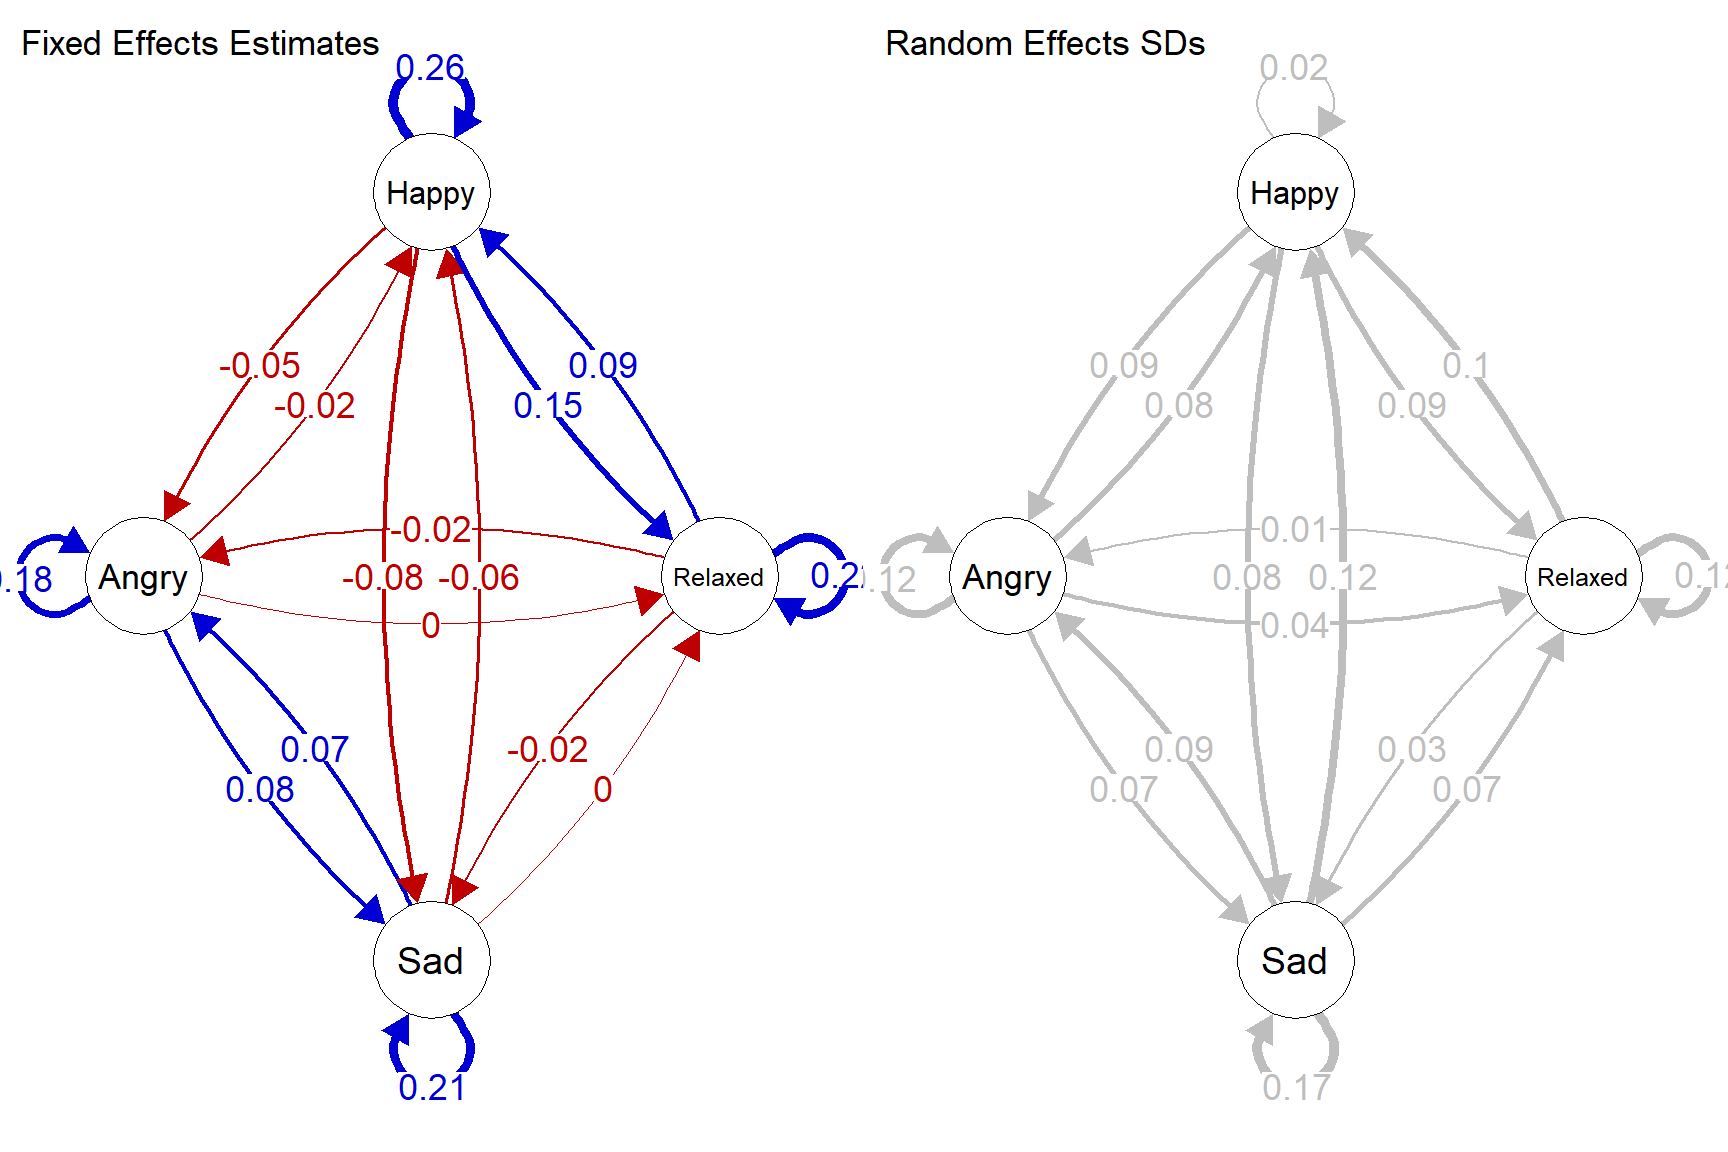
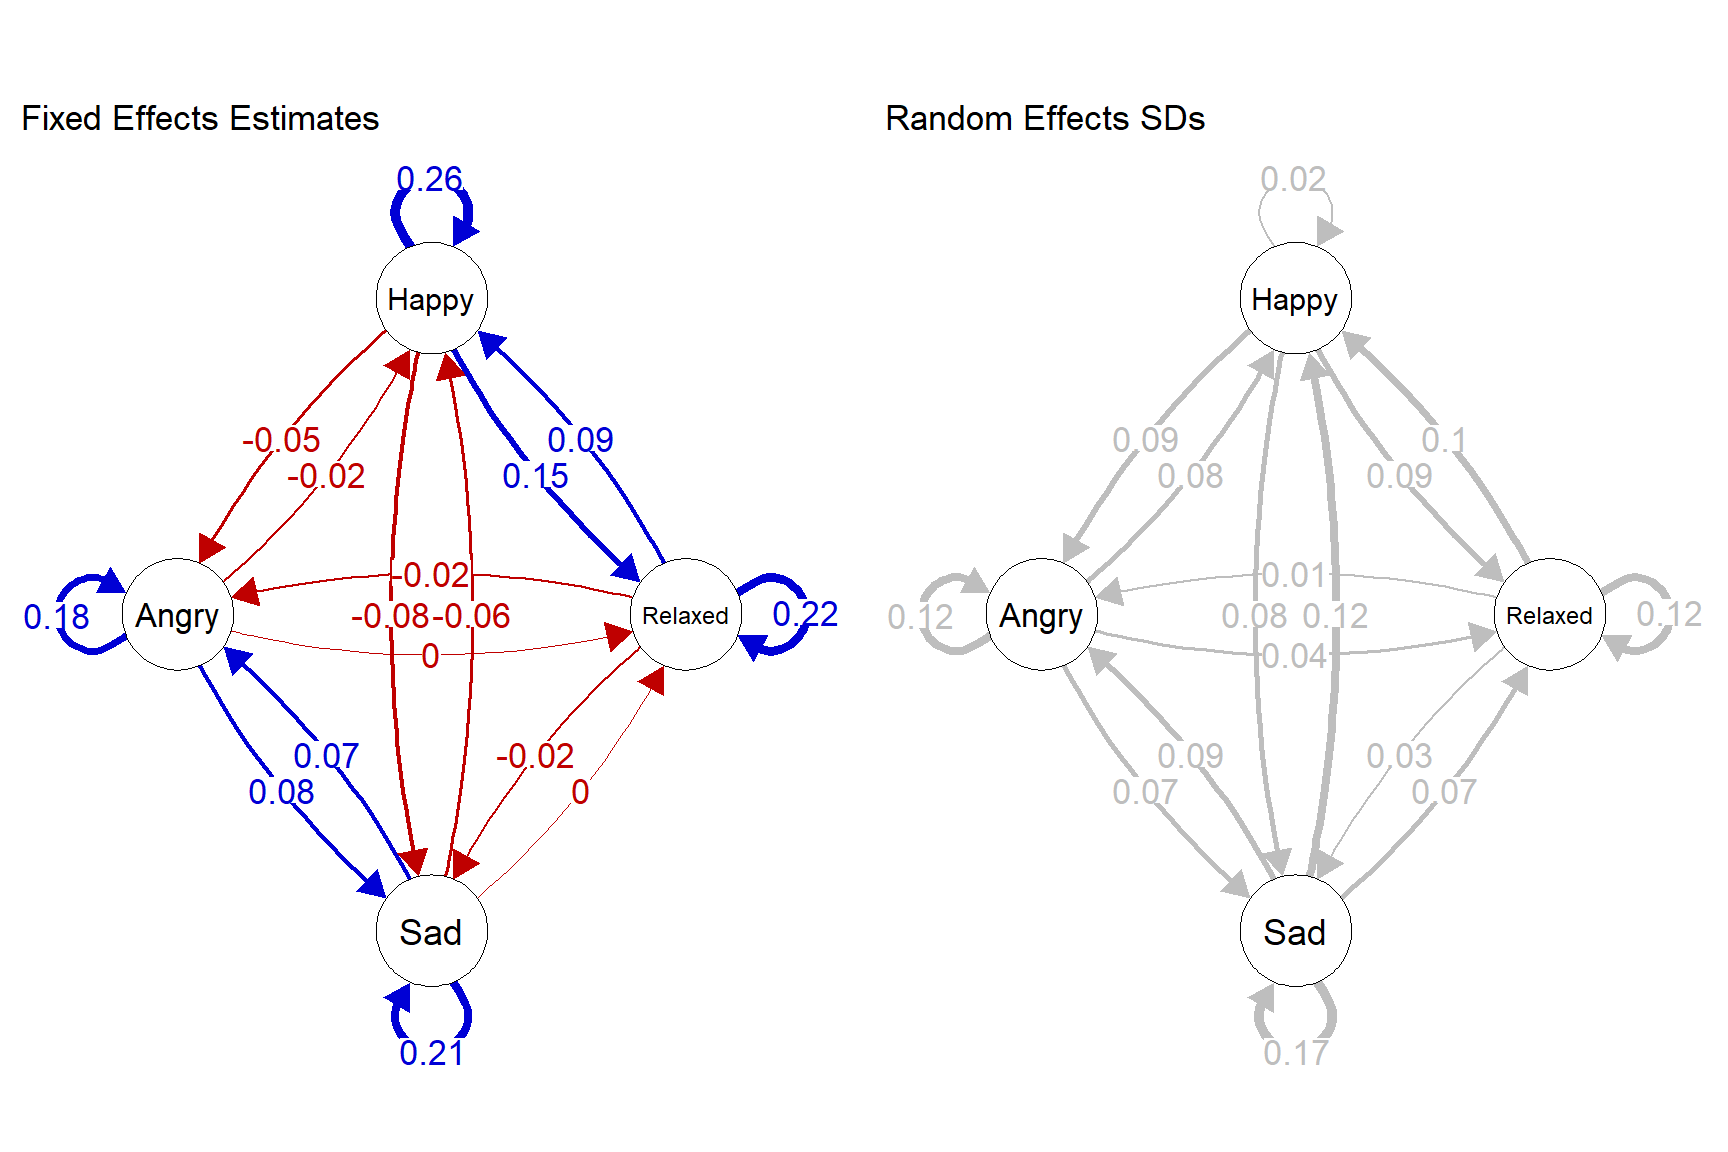
update figure dimensions in VARcheck blogpost

diff --git a/docs/blog/2026-05-20_varcheck/index.html b/docs/blog/2026-05-20_varcheck/index.html
@@ -356,7 +356,7 @@ window.Quarto = {
 <span id="cb3-7"><a href="#cb3-7" aria-hidden="true" tabindex="-1"></a>sc_2 <span class="ot">&lt;-</span> <span class="fl">0.6</span></span>
 <span id="cb3-8"><a href="#cb3-8" aria-hidden="true" tabindex="-1"></a>title_cex <span class="ot">&lt;-</span> <span class="fl">1.1</span></span>
 <span id="cb3-9"><a href="#cb3-9" aria-hidden="true" tabindex="-1"></a></span>
-<span id="cb3-10"><a href="#cb3-10" aria-hidden="true" tabindex="-1"></a><span class="fu">par</span>(<span class="at">mfrow=</span><span class="fu">c</span>(<span class="dv">1</span>,<span class="dv">2</span>))</span>
+<span id="cb3-10"><a href="#cb3-10" aria-hidden="true" tabindex="-1"></a><span class="fu">par</span>(<span class="at">mfrow=</span><span class="fu">c</span>(<span class="dv">1</span>,<span class="dv">2</span>), <span class="at">oma=</span><span class="fu">c</span>(<span class="dv">0</span>,<span class="dv">0</span>,<span class="dv">2</span>,<span class="dv">0</span>))</span>
 <span id="cb3-11"><a href="#cb3-11" aria-hidden="true" tabindex="-1"></a></span>
 <span id="cb3-12"><a href="#cb3-12" aria-hidden="true" tabindex="-1"></a><span class="co"># Network</span></span>
 <span id="cb3-13"><a href="#cb3-13" aria-hidden="true" tabindex="-1"></a><span class="fu">qgraph</span>(</span>
@@ -370,7 +370,7 @@ window.Quarto = {
 <span id="cb3-21"><a href="#cb3-21" aria-hidden="true" tabindex="-1"></a>  <span class="at">edge.labels =</span> <span class="cn">TRUE</span>,</span>
 <span id="cb3-22"><a href="#cb3-22" aria-hidden="true" tabindex="-1"></a>  <span class="at">edge.label.cex =</span> <span class="fl">1.5</span>,</span>
 <span id="cb3-23"><a href="#cb3-23" aria-hidden="true" tabindex="-1"></a>  <span class="at">fade =</span> F,</span>
-<span id="cb3-24"><a href="#cb3-24" aria-hidden="true" tabindex="-1"></a>  <span class="at">mar =</span> <span class="fu">rep</span>(<span class="dv">5</span>, <span class="dv">4</span>),</span>
+<span id="cb3-24"><a href="#cb3-24" aria-hidden="true" tabindex="-1"></a>  <span class="at">mar =</span> <span class="fu">rep</span>(<span class="dv">7</span>, <span class="dv">4</span>),</span>
 <span id="cb3-25"><a href="#cb3-25" aria-hidden="true" tabindex="-1"></a>  <span class="at">palette =</span> <span class="st">"colorblind"</span>,</span>
 <span id="cb3-26"><a href="#cb3-26" aria-hidden="true" tabindex="-1"></a>  <span class="at">theme =</span> <span class="st">"colorblind"</span>,</span>
 <span id="cb3-27"><a href="#cb3-27" aria-hidden="true" tabindex="-1"></a>  <span class="at">title =</span> <span class="st">"Fixed Effects Estimates"</span>,</span>
@@ -388,7 +388,7 @@ window.Quarto = {
 <span id="cb3-39"><a href="#cb3-39" aria-hidden="true" tabindex="-1"></a>  <span class="at">edge.labels =</span> <span class="cn">TRUE</span>,</span>
 <span id="cb3-40"><a href="#cb3-40" aria-hidden="true" tabindex="-1"></a>  <span class="at">edge.label.cex =</span> <span class="fl">1.5</span>,</span>
 <span id="cb3-41"><a href="#cb3-41" aria-hidden="true" tabindex="-1"></a>  <span class="at">fade =</span> F,</span>
-<span id="cb3-42"><a href="#cb3-42" aria-hidden="true" tabindex="-1"></a>  <span class="at">mar =</span> <span class="fu">rep</span>(<span class="dv">5</span>, <span class="dv">4</span>),</span>
+<span id="cb3-42"><a href="#cb3-42" aria-hidden="true" tabindex="-1"></a>  <span class="at">mar =</span> <span class="fu">rep</span>(<span class="dv">7</span>, <span class="dv">4</span>),</span>
 <span id="cb3-43"><a href="#cb3-43" aria-hidden="true" tabindex="-1"></a>  <span class="at">edge.color =</span> <span class="st">"grey"</span>,</span>
 <span id="cb3-44"><a href="#cb3-44" aria-hidden="true" tabindex="-1"></a>  <span class="at">palette =</span> <span class="st">"colorblind"</span>,</span>
 <span id="cb3-45"><a href="#cb3-45" aria-hidden="true" tabindex="-1"></a>  <span class="at">theme =</span> <span class="st">"colorblind"</span>,</span>

diff --git a/docs/blog/index.html b/docs/blog/index.html
@@ -247,7 +247,7 @@ window.Quarto = {
 
 <div class="quarto-listing quarto-listing-container-default" id="listing-listing">
 <div class="list quarto-listing-default">
-<div class="quarto-post image-right" data-index="0" data-categories="QmxvZyUyQ1RpbWUlMjBTZXJpZXMlMkNFTUE=" data-listing-date-sort="1779746400000" data-listing-file-modified-sort="1779802263588" data-listing-date-modified-sort="NaN" data-listing-reading-time-sort="13" data-listing-word-count-sort="2541">
+<div class="quarto-post image-right" data-index="0" data-categories="QmxvZyUyQ1RpbWUlMjBTZXJpZXMlMkNFTUE=" data-listing-date-sort="1779746400000" data-listing-file-modified-sort="1779807118491" data-listing-date-modified-sort="NaN" data-listing-reading-time-sort="13" data-listing-word-count-sort="2542">
 <div class="thumbnail"><a href="../blog/2026-05-20_varcheck/index.html" class="no-external">
 
 <img loading="lazy" src="../blog/2026-05-20_varcheck/VARcheck-screenshot.png" class="thumbnail-image">